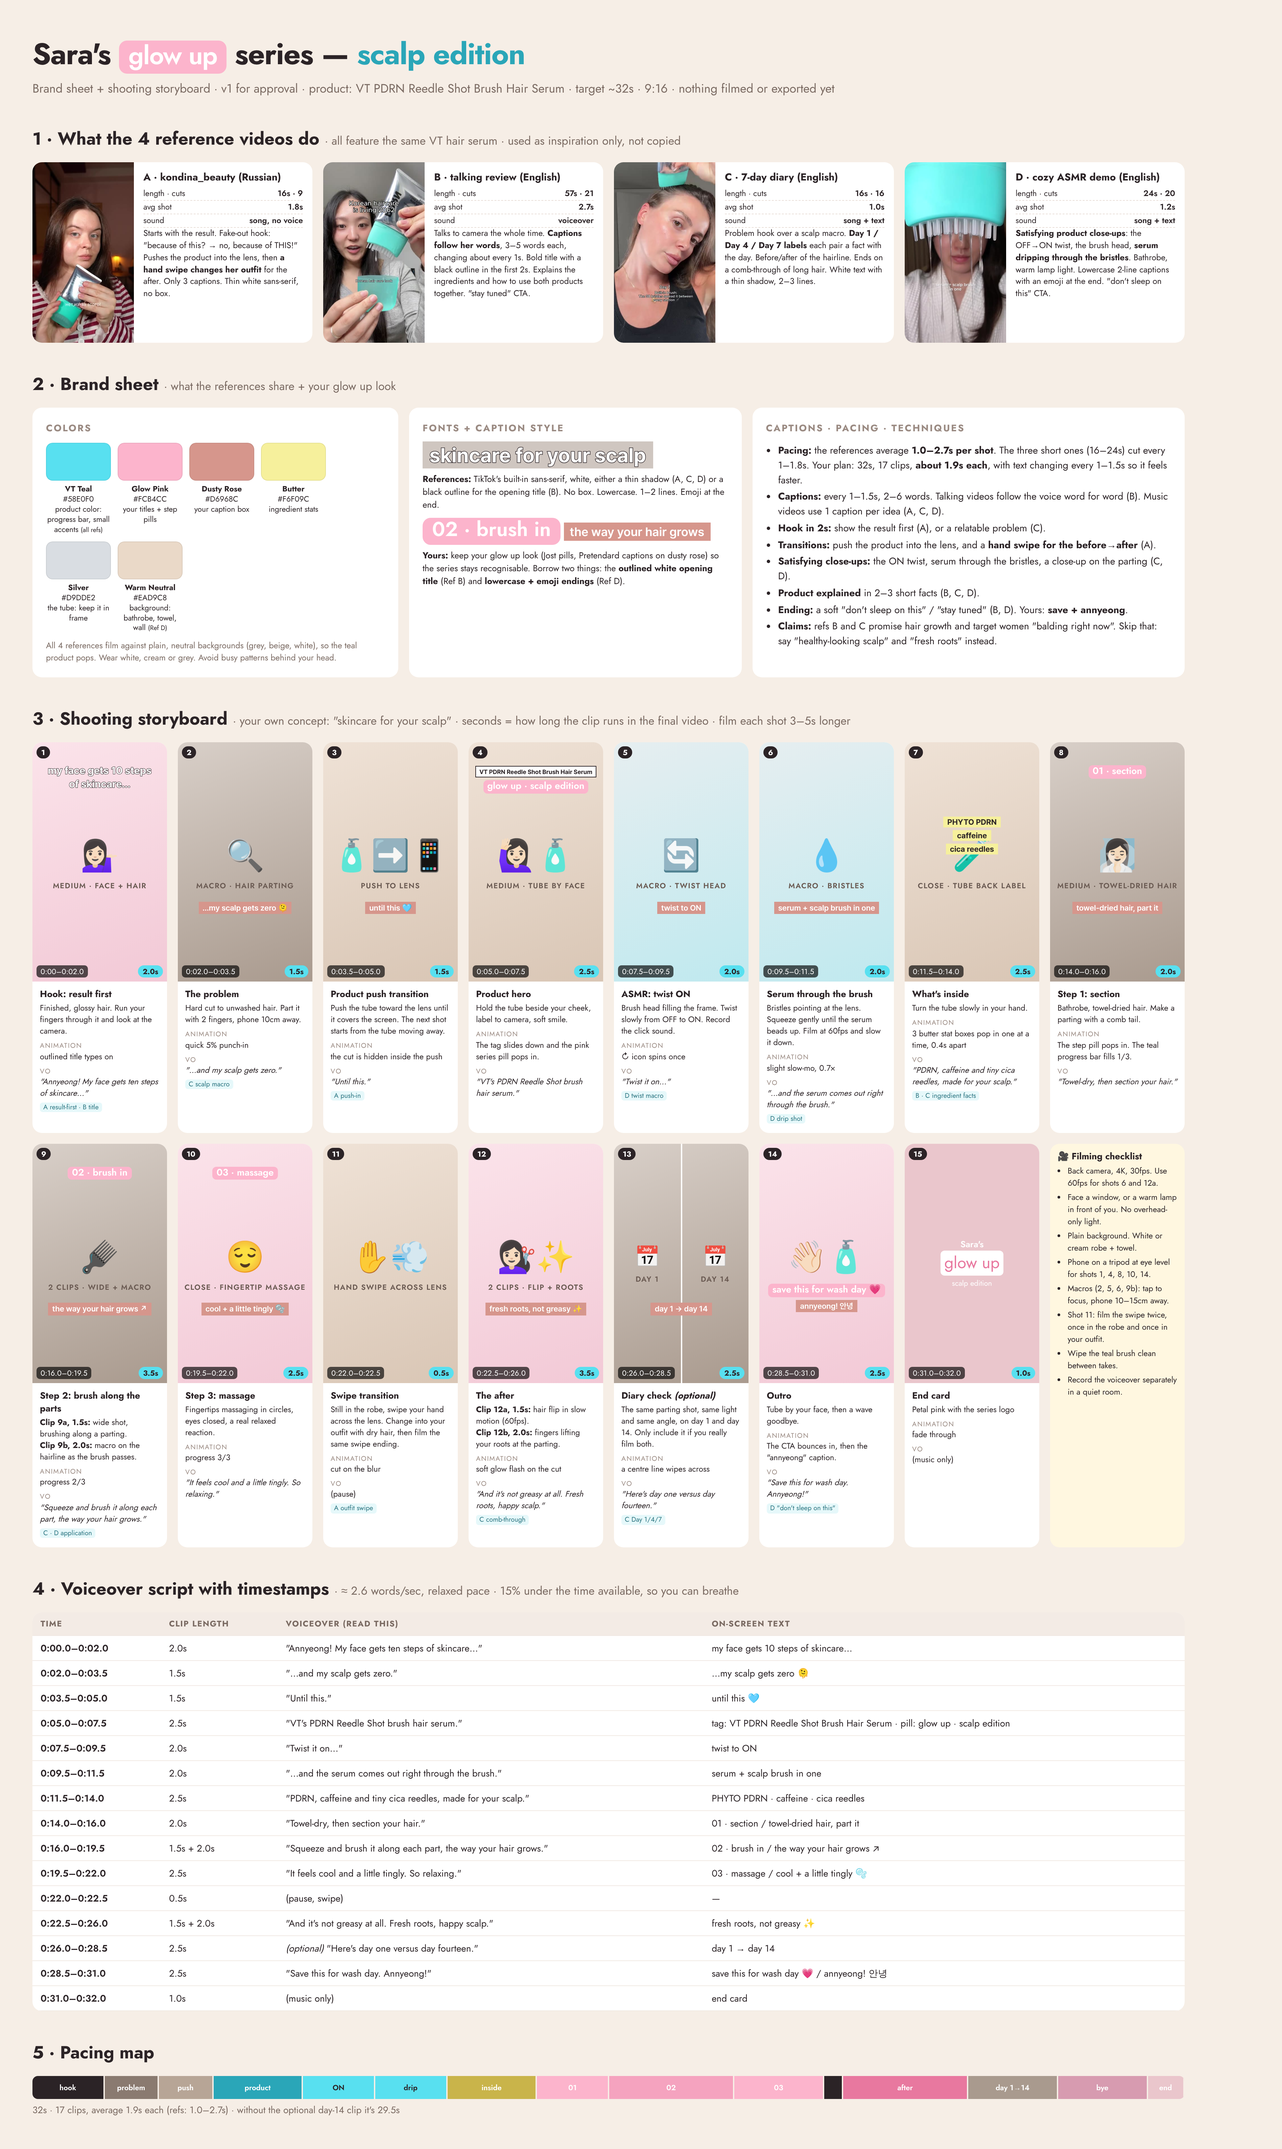
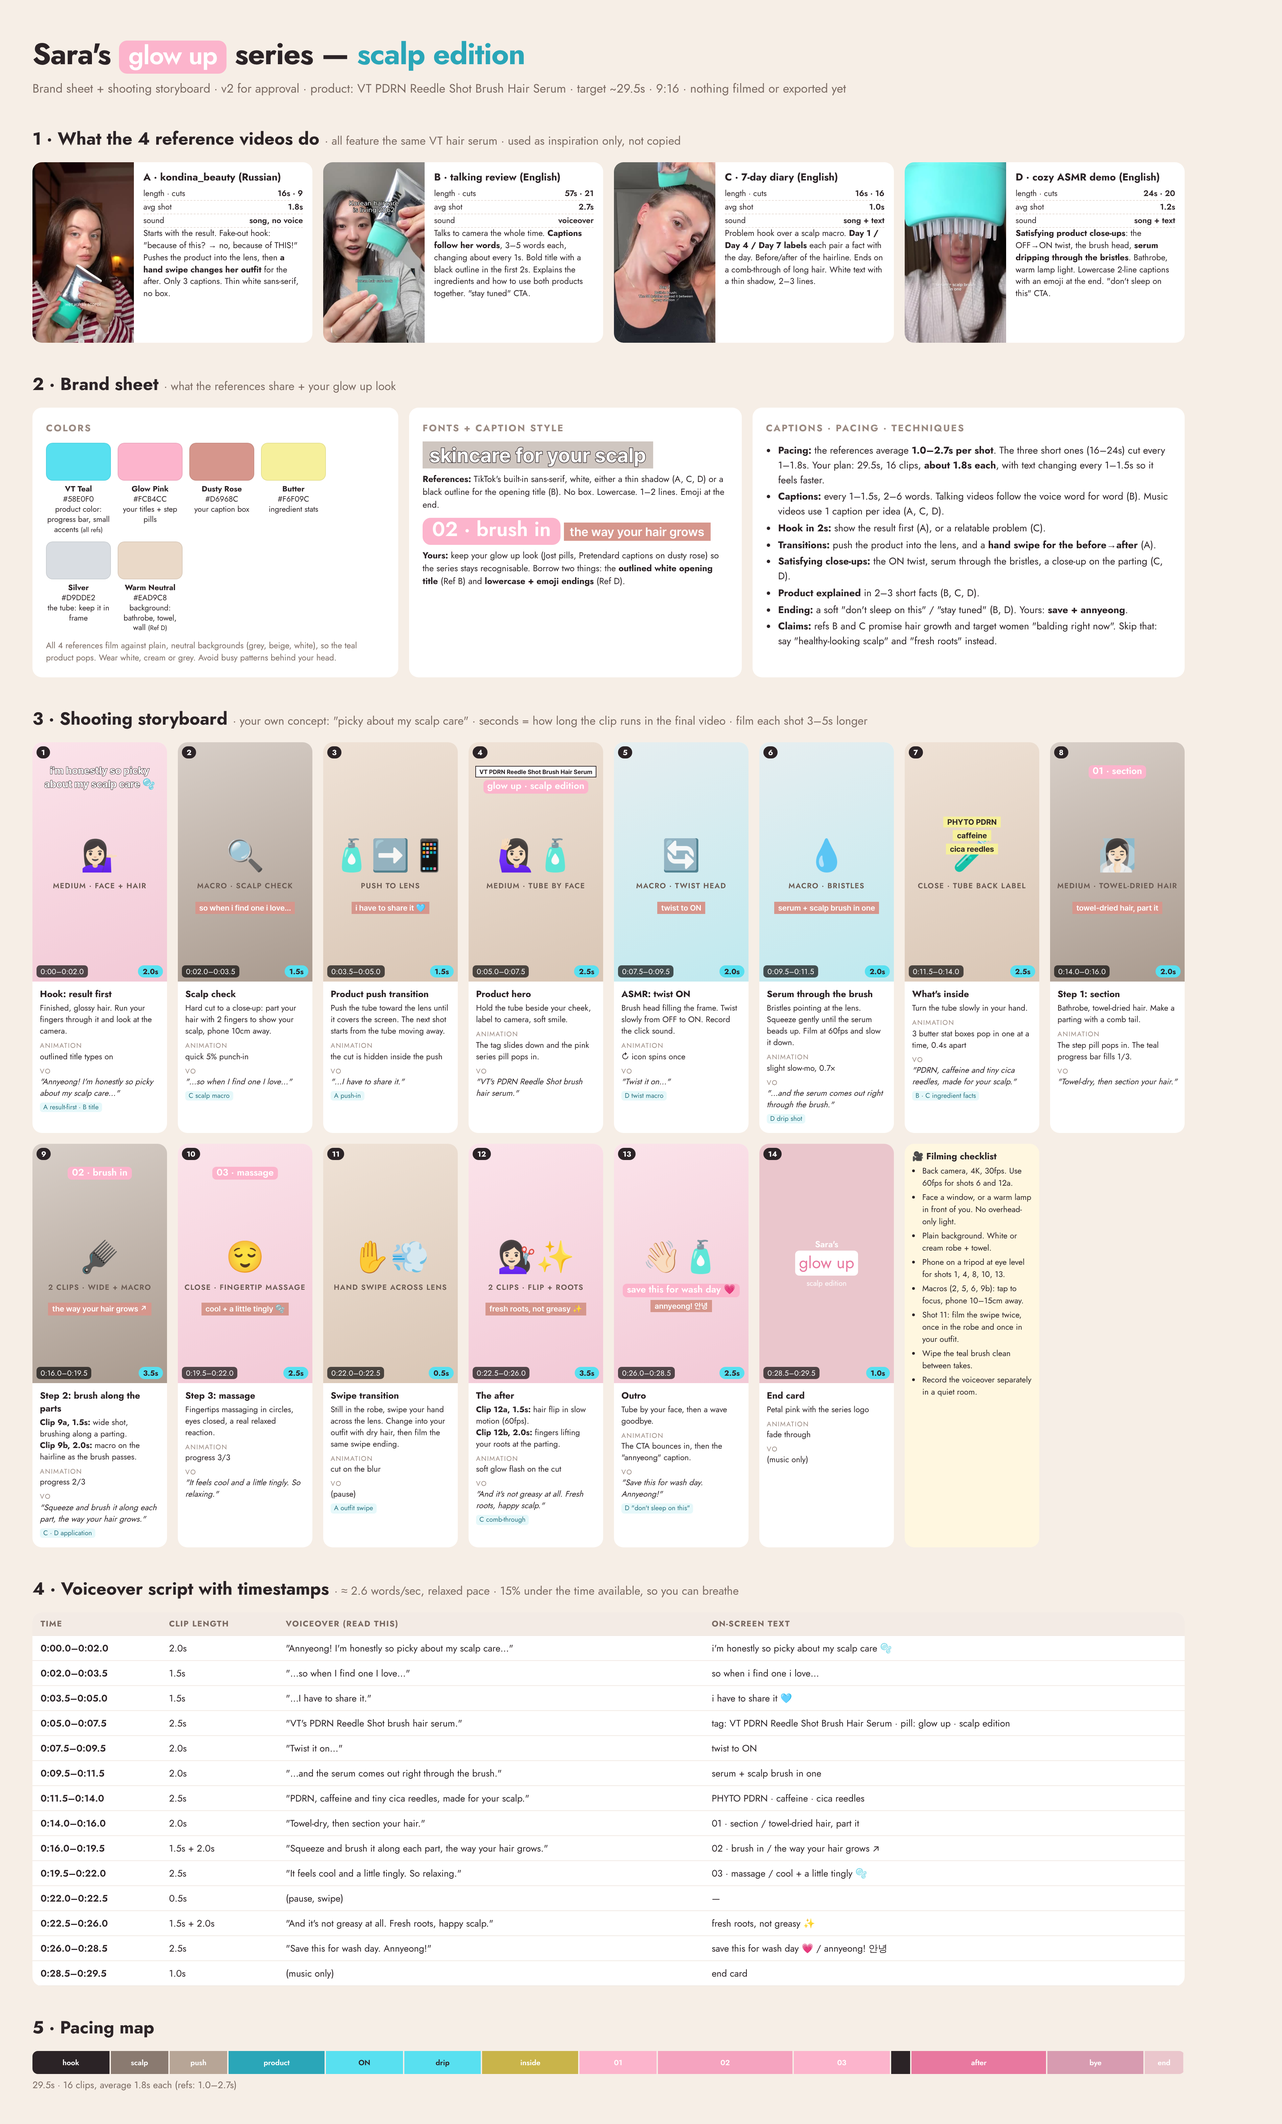
Scalp edition v2: new picky-about-scalp-care hook, remove day 1 vs 14, re-time to 29.5s
Claude-Session: https://claude.ai/code/session_01S5qAcCrvmidoWPAt4iKS3u

diff --git a/storyboard/scalp/index.html b/storyboard/scalp/index.html
@@ -64,7 +64,7 @@
 </head>
 <body>
   <h1>Sara's <span class="pill" style="font-size:38px">glow up</span> series — <span style="color:#2aa6b8">scalp edition</span></h1>
-  <p class="sub">Brand sheet + shooting storyboard · v1 for approval · product: VT PDRN Reedle Shot Brush Hair Serum · target ~32s · 9:16 · nothing filmed or exported yet</p>
+  <p class="sub">Brand sheet + shooting storyboard · v2 for approval · product: VT PDRN Reedle Shot Brush Hair Serum · target ~29.5s · 9:16 · nothing filmed or exported yet</p>
 
   <h2>1 · What the 4 reference videos do <small>· all feature the same VT hair serum · used as inspiration only, not copied</small></h2>
   <div class="grid refs">
@@ -101,7 +101,7 @@
       <p style="font-size:13px"><b>Yours:</b> keep your glow up look (Jost pills, Pretendard captions on dusty rose) so the series stays recognisable. Borrow two things: the <b>outlined white opening title</b> (Ref B) and <b>lowercase + emoji endings</b> (Ref D).</p></div>
     <div class="card"><h3>Captions · Pacing · Techniques</h3>
       <ul>
-        <li><b>Pacing:</b> the references average <b>1.0–2.7s per shot</b>. The three short ones (16–24s) cut every 1–1.8s. Your plan: 32s, 17 clips, <b>about 1.9s each</b>, with text changing every 1–1.5s so it feels faster.</li>
+        <li><b>Pacing:</b> the references average <b>1.0–2.7s per shot</b>. The three short ones (16–24s) cut every 1–1.8s. Your plan: 29.5s, 16 clips, <b>about 1.8s each</b>, with text changing every 1–1.5s so it feels faster.</li>
         <li><b>Captions:</b> every 1–1.5s, 2–6 words. Talking videos follow the voice word for word (B). Music videos use 1 caption per idea (A, C, D).</li>
         <li><b>Hook in 2s:</b> show the result first (A), or a relatable problem (C).</li>
         <li><b>Transitions:</b> push the product into the lens, and a <b>hand swipe for the before→after</b> (A).</li>
@@ -112,19 +112,19 @@
       </ul></div>
   </div>
 
-  <h2>3 · Shooting storyboard <small>· your own concept: "skincare for your scalp" · seconds = how long the clip runs in the final video · film each shot 3–5s longer</small></h2>
+  <h2>3 · Shooting storyboard <small>· your own concept: "picky about my scalp care" · seconds = how long the clip runs in the final video · film each shot 3–5s longer</small></h2>
   <div class="grid board">
     <div class="sc"><div class="fr bgp"><span class="num">1</span><div class="shot">💁🏻♀</div><div class="lbl">medium · face + hair</div>
-      <div class="ov top"><span style="font-weight:700;font-size:15px;-webkit-text-stroke:1px #2B2326;paint-order:stroke fill">my face gets 10 steps<br>of skincare…</span></div><span class="tc">0:00–0:02.0</span><span class="len">2.0s</span></div>
-      <div class="tx"><b class="t">Hook: result first</b>Finished, glossy hair. Run your fingers through it and look at the camera.<span class="k">Animation</span>outlined title types on<span class="k">VO</span><span class="vo">"Annyeong! My face gets ten steps of skincare…"</span><br><span class="ref">A result-first · B title</span></div></div>
+      <div class="ov top"><span style="font-weight:700;font-size:15px;-webkit-text-stroke:1px #2B2326;paint-order:stroke fill">i'm honestly so picky<br>about my scalp care 🫧</span></div><span class="tc">0:00–0:02.0</span><span class="len">2.0s</span></div>
+      <div class="tx"><b class="t">Hook: result first</b>Finished, glossy hair. Run your fingers through it and look at the camera.<span class="k">Animation</span>outlined title types on<span class="k">VO</span><span class="vo">"Annyeong! I'm honestly so picky about my scalp care…"</span><br><span class="ref">A result-first · B title</span></div></div>
 
-    <div class="sc"><div class="fr bgd"><span class="num">2</span><div class="shot">🔍</div><div class="lbl">macro · hair parting</div>
-      <div class="ov low"><span class="cb">…my scalp gets zero 🫠</span></div><span class="tc">0:02.0–0:03.5</span><span class="len">1.5s</span></div>
-      <div class="tx"><b class="t">The problem</b>Hard cut to unwashed hair. Part it with 2 fingers, phone 10cm away.<span class="k">Animation</span>quick 5% punch-in<span class="k">VO</span><span class="vo">"…and my scalp gets zero."</span><br><span class="ref">C scalp macro</span></div></div>
+    <div class="sc"><div class="fr bgd"><span class="num">2</span><div class="shot">🔍</div><div class="lbl">macro · scalp check</div>
+      <div class="ov low"><span class="cb">so when i find one i love…</span></div><span class="tc">0:02.0–0:03.5</span><span class="len">1.5s</span></div>
+      <div class="tx"><b class="t">Scalp check</b>Hard cut to a close-up: part your hair with 2 fingers to show your scalp, phone 10cm away.<span class="k">Animation</span>quick 5% punch-in<span class="k">VO</span><span class="vo">"…so when I find one I love…"</span><br><span class="ref">C scalp macro</span></div></div>
 
     <div class="sc"><div class="fr bgw"><span class="num">3</span><div class="shot">🧴➡📱</div><div class="lbl">push to lens</div>
-      <div class="ov low"><span class="cb">until this 🩵</span></div><span class="tc">0:03.5–0:05.0</span><span class="len">1.5s</span></div>
-      <div class="tx"><b class="t">Product push transition</b>Push the tube toward the lens until it covers the screen. The next shot starts from the tube moving away.<span class="k">Animation</span>the cut is hidden inside the push<span class="k">VO</span><span class="vo">"Until this."</span><br><span class="ref">A push-in</span></div></div>
+      <div class="ov low"><span class="cb">i have to share it 🩵</span></div><span class="tc">0:03.5–0:05.0</span><span class="len">1.5s</span></div>
+      <div class="tx"><b class="t">Product push transition</b>Push the tube toward the lens until it covers the screen. The next shot starts from the tube moving away.<span class="k">Animation</span>the cut is hidden inside the push<span class="k">VO</span><span class="vo">"…I have to share it."</span><br><span class="ref">A push-in</span></div></div>
 
     <div class="sc"><div class="fr bgw"><span class="num">4</span><div class="shot">🙋🏻♀🧴</div><div class="lbl">medium · tube by face</div>
       <div class="ov top"><span class="tag">VT PDRN Reedle Shot Brush Hair Serum</span><br><span class="p" style="margin-top:4px">glow up · scalp edition</span></div><span class="tc">0:05.0–0:07.5</span><span class="len">2.5s</span></div>
@@ -161,15 +161,11 @@
       <div class="ov low"><span class="cb">fresh roots, not greasy ✨</span></div><span class="tc">0:22.5–0:26.0</span><span class="len">3.5s</span></div>
       <div class="tx"><b class="t">The after</b><b>Clip 12a, 1.5s:</b> hair flip in slow motion (60fps).<br><b>Clip 12b, 2.0s:</b> fingers lifting your roots at the parting.<span class="k">Animation</span>soft glow flash on the cut<span class="k">VO</span><span class="vo">"And it's not greasy at all. Fresh roots, happy scalp."</span><br><span class="ref">C comb-through</span></div></div>
 
-    <div class="sc"><div class="fr bgd" style="flex-direction:row"><span class="num">13</span><div style="flex:1;text-align:center"><div class="shot" style="font-size:30px">📅</div><div class="lbl">day 1</div></div><div style="width:2px;align-self:stretch;background:#fff"></div><div style="flex:1;text-align:center"><div class="shot" style="font-size:30px">📅</div><div class="lbl">day 14</div></div>
-      <div class="ov low"><span class="cb">day 1 → day 14</span></div><span class="tc">0:26.0–0:28.5</span><span class="len">2.5s</span></div>
-      <div class="tx"><b class="t">Diary check <i>(optional)</i></b>The same parting shot, same light and same angle, on day 1 and day 14. Only include it if you really film both.<span class="k">Animation</span>a centre line wipes across<span class="k">VO</span><span class="vo">"Here's day one versus day fourteen."</span><br><span class="ref">C Day 1/4/7</span></div></div>
-
-    <div class="sc"><div class="fr bgp"><span class="num">14</span><div class="shot">👋🏻🧴</div><div class="lbl">medium · wave</div>
-      <div class="ov low" style="top:58%"><span class="p">save this for wash day 💗</span><br><span class="cb" style="margin-top:4px">annyeong! 안녕</span></div><span class="tc">0:28.5–0:31.0</span><span class="len">2.5s</span></div>
+    <div class="sc"><div class="fr bgp"><span class="num">13</span><div class="shot">👋🏻🧴</div><div class="lbl">medium · wave</div>
+      <div class="ov low" style="top:58%"><span class="p">save this for wash day 💗</span><br><span class="cb" style="margin-top:4px">annyeong! 안녕</span></div><span class="tc">0:26.0–0:28.5</span><span class="len">2.5s</span></div>
       <div class="tx"><b class="t">Outro</b>Tube by your face, then a wave goodbye.<span class="k">Animation</span>The CTA bounces in, then the "annyeong" caption.<span class="k">VO</span><span class="vo">"Save this for wash day. Annyeong!"</span><br><span class="ref">D "don't sleep on this"</span></div></div>
 
-    <div class="sc"><div class="fr" style="background:#EAC6CC"><span class="num">15</span><div style="color:#fff;font-weight:600;font-size:13px">Sara's</div><div class="p" style="background:#fff;color:#E8789F;font-size:24px">glow up</div><div style="color:#fff;font-size:11px;margin-top:3px">scalp edition</div><span class="tc">0:31.0–0:32.0</span><span class="len">1.0s</span></div>
+    <div class="sc"><div class="fr" style="background:#EAC6CC"><span class="num">14</span><div style="color:#fff;font-weight:600;font-size:13px">Sara's</div><div class="p" style="background:#fff;color:#E8789F;font-size:24px">glow up</div><div style="color:#fff;font-size:11px;margin-top:3px">scalp edition</div><span class="tc">0:28.5–0:29.5</span><span class="len">1.0s</span></div>
       <div class="tx"><b class="t">End card</b>Petal pink with the series logo<span class="k">Animation</span>fade through<span class="k">VO</span>(music only)</div></div>
 
     <div class="sc" style="background:#fff7e0"><div class="tx" style="font-size:12.5px"><b class="t">🎥 Filming checklist</b>
@@ -177,7 +173,7 @@
         <li>Back camera, 4K, 30fps. Use 60fps for shots 6 and 12a.</li>
         <li>Face a window, or a warm lamp in front of you. No overhead-only light.</li>
         <li>Plain background. White or cream robe + towel.</li>
-        <li>Phone on a tripod at eye level for shots 1, 4, 8, 10, 14.</li>
+        <li>Phone on a tripod at eye level for shots 1, 4, 8, 10, 13.</li>
         <li>Macros (2, 5, 6, 9b): tap to focus, phone 10–15cm away.</li>
         <li>Shot 11: film the swipe twice, once in the robe and once in your outfit.</li>
         <li>Wipe the teal brush clean between takes.</li>
@@ -188,9 +184,9 @@
   <h2>4 · Voiceover script with timestamps <small>· ≈ 2.6 words/sec, relaxed pace · 15% under the time available, so you can breathe</small></h2>
   <table>
     <tr><th>Time</th><th>Clip length</th><th>Voiceover (read this)</th><th>On-screen text</th></tr>
-    <tr><td class="tm">0:00.0–0:02.0</td><td>2.0s</td><td>"Annyeong! My face gets ten steps of skincare…"</td><td>my face gets 10 steps of skincare…</td></tr>
-    <tr><td class="tm">0:02.0–0:03.5</td><td>1.5s</td><td>"…and my scalp gets zero."</td><td>…my scalp gets zero 🫠</td></tr>
-    <tr><td class="tm">0:03.5–0:05.0</td><td>1.5s</td><td>"Until this."</td><td>until this 🩵</td></tr>
+    <tr><td class="tm">0:00.0–0:02.0</td><td>2.0s</td><td>"Annyeong! I'm honestly so picky about my scalp care…"</td><td>i'm honestly so picky about my scalp care 🫧</td></tr>
+    <tr><td class="tm">0:02.0–0:03.5</td><td>1.5s</td><td>"…so when I find one I love…"</td><td>so when i find one i love…</td></tr>
+    <tr><td class="tm">0:03.5–0:05.0</td><td>1.5s</td><td>"…I have to share it."</td><td>i have to share it 🩵</td></tr>
     <tr><td class="tm">0:05.0–0:07.5</td><td>2.5s</td><td>"VT's PDRN Reedle Shot brush hair serum."</td><td>tag: VT PDRN Reedle Shot Brush Hair Serum · pill: glow up · scalp edition</td></tr>
     <tr><td class="tm">0:07.5–0:09.5</td><td>2.0s</td><td>"Twist it on…"</td><td>twist to ON</td></tr>
     <tr><td class="tm">0:09.5–0:11.5</td><td>2.0s</td><td>"…and the serum comes out right through the brush."</td><td>serum + scalp brush in one</td></tr>
@@ -200,16 +196,15 @@
     <tr><td class="tm">0:19.5–0:22.0</td><td>2.5s</td><td>"It feels cool and a little tingly. So relaxing."</td><td>03 · massage / cool + a little tingly 🫧</td></tr>
     <tr><td class="tm">0:22.0–0:22.5</td><td>0.5s</td><td>(pause, swipe)</td><td>—</td></tr>
     <tr><td class="tm">0:22.5–0:26.0</td><td>1.5s + 2.0s</td><td>"And it's not greasy at all. Fresh roots, happy scalp."</td><td>fresh roots, not greasy ✨</td></tr>
-    <tr><td class="tm">0:26.0–0:28.5</td><td>2.5s</td><td><i>(optional)</i> "Here's day one versus day fourteen."</td><td>day 1 → day 14</td></tr>
-    <tr><td class="tm">0:28.5–0:31.0</td><td>2.5s</td><td>"Save this for wash day. Annyeong!"</td><td>save this for wash day 💗 / annyeong! 안녕</td></tr>
-    <tr><td class="tm">0:31.0–0:32.0</td><td>1.0s</td><td>(music only)</td><td>end card</td></tr>
+        <tr><td class="tm">0:26.0–0:28.5</td><td>2.5s</td><td>"Save this for wash day. Annyeong!"</td><td>save this for wash day 💗 / annyeong! 안녕</td></tr>
+    <tr><td class="tm">0:28.5–0:29.5</td><td>1.0s</td><td>(music only)</td><td>end card</td></tr>
   </table>
 
   <h2>5 · Pacing map</h2>
   <div class="bar">
-    <div style="flex:2;background:#2B2326">hook</div><div style="flex:1.5;background:#8a7a70">problem</div><div style="flex:1.5;background:#b7a596">push</div><div style="flex:2.5;background:#2aa6b8">product</div><div style="flex:2;background:#58E0F0;color:#2B2326">ON</div><div style="flex:2;background:#58E0F0;color:#2B2326">drip</div><div style="flex:2.5;background:#c9b44a">inside</div>
-    <div style="flex:2;background:#FCB4CC">01</div><div style="flex:3.5;background:#f5a3bf">02</div><div style="flex:2.5;background:#FCB4CC">03</div><div style="flex:.5;background:#2B2326"></div><div style="flex:3.5;background:#E8789F">after</div><div style="flex:2.5;background:#a99a8e">day 1→14</div><div style="flex:2.5;background:#d79bb0">bye</div><div style="flex:1;background:#EAC6CC">end</div>
+    <div style="flex:2;background:#2B2326">hook</div><div style="flex:1.5;background:#8a7a70">scalp</div><div style="flex:1.5;background:#b7a596">push</div><div style="flex:2.5;background:#2aa6b8">product</div><div style="flex:2;background:#58E0F0;color:#2B2326">ON</div><div style="flex:2;background:#58E0F0;color:#2B2326">drip</div><div style="flex:2.5;background:#c9b44a">inside</div>
+    <div style="flex:2;background:#FCB4CC">01</div><div style="flex:3.5;background:#f5a3bf">02</div><div style="flex:2.5;background:#FCB4CC">03</div><div style="flex:.5;background:#2B2326"></div><div style="flex:3.5;background:#E8789F">after</div><div style="flex:2.5;background:#d79bb0">bye</div><div style="flex:1;background:#EAC6CC">end</div>
   </div>
-  <p class="sub" style="font-size:14px">32s · 17 clips, average 1.9s each (refs: 1.0–2.7s) · without the optional day-14 clip it's 29.5s</p>
+  <p class="sub" style="font-size:14px">29.5s · 16 clips, average 1.8s each (refs: 1.0–2.7s)</p>
 </body>
 </html>

diff --git a/storyboard/scalp/voiceover-script.md b/storyboard/scalp/voiceover-script.md
@@ -1,13 +1,13 @@
-# Voiceover script: Sara's glow up series, scalp edition (v1)
+# Voiceover script: Sara's glow up series, scalp edition (v2)
 
-Product: VT Cosmetics PDRN Reedle Shot Brush Hair Serum · target ~32s (29.5s without the optional day-14 clip).
+Product: VT Cosmetics PDRN Reedle Shot Brush Hair Serum · target ~29.5s.
 Pace about 2.6 words/sec, relaxed. Record in a quiet room, separately from filming.
 
 | Time | Clip length | Voiceover | On-screen text |
 |------|-------------|-----------|----------------|
-| 0:00.0–0:02.0 | 2.0s | "Annyeong! My face gets ten steps of skincare…" | my face gets 10 steps of skincare… |
-| 0:02.0–0:03.5 | 1.5s | "…and my scalp gets zero." | …my scalp gets zero 🫠 |
-| 0:03.5–0:05.0 | 1.5s | "Until this." | until this 🩵 |
+| 0:00.0–0:02.0 | 2.0s | "Annyeong! I'm honestly so picky about my scalp care…" | i'm honestly so picky about my scalp care 🫧 |
+| 0:02.0–0:03.5 | 1.5s | "…so when I find one I love…" | so when i find one i love… |
+| 0:03.5–0:05.0 | 1.5s | "…I have to share it." | i have to share it 🩵 |
 | 0:05.0–0:07.5 | 2.5s | "VT's PDRN Reedle Shot brush hair serum." | tag: VT PDRN Reedle Shot Brush Hair Serum · pill: glow up · scalp edition |
 | 0:07.5–0:09.5 | 2.0s | "Twist it on…" | twist to ON |
 | 0:09.5–0:11.5 | 2.0s | "…and the serum comes out right through the brush." | serum + scalp brush in one |
@@ -17,9 +17,8 @@ Pace about 2.6 words/sec, relaxed. Record in a quiet room, separately from filmi
 | 0:19.5–0:22.0 | 2.5s | "It feels cool and a little tingly. So relaxing." | 03 · massage / cool + a little tingly 🫧 |
 | 0:22.0–0:22.5 | 0.5s | (pause, hand swipe) | — |
 | 0:22.5–0:26.0 | 1.5s + 2.0s | "And it's not greasy at all. Fresh roots, happy scalp." | fresh roots, not greasy ✨ |
-| 0:26.0–0:28.5 | 2.5s | *(optional)* "Here's day one versus day fourteen." | day 1 → day 14 |
-| 0:28.5–0:31.0 | 2.5s | "Save this for wash day. Annyeong!" | save this for wash day 💗 / annyeong! 안녕 |
-| 0:31.0–0:32.0 | 1.0s | (music only) | end card |
+| 0:26.0–0:28.5 | 2.5s | "Save this for wash day. Annyeong!" | save this for wash day 💗 / annyeong! 안녕 |
+| 0:28.5–0:29.5 | 1.0s | (music only) | end card |
 
 ## Product facts used (retail listings)
 - PHYTO PDRN, caffeine, CICA reedles, silk amino acids, propolis extract.
